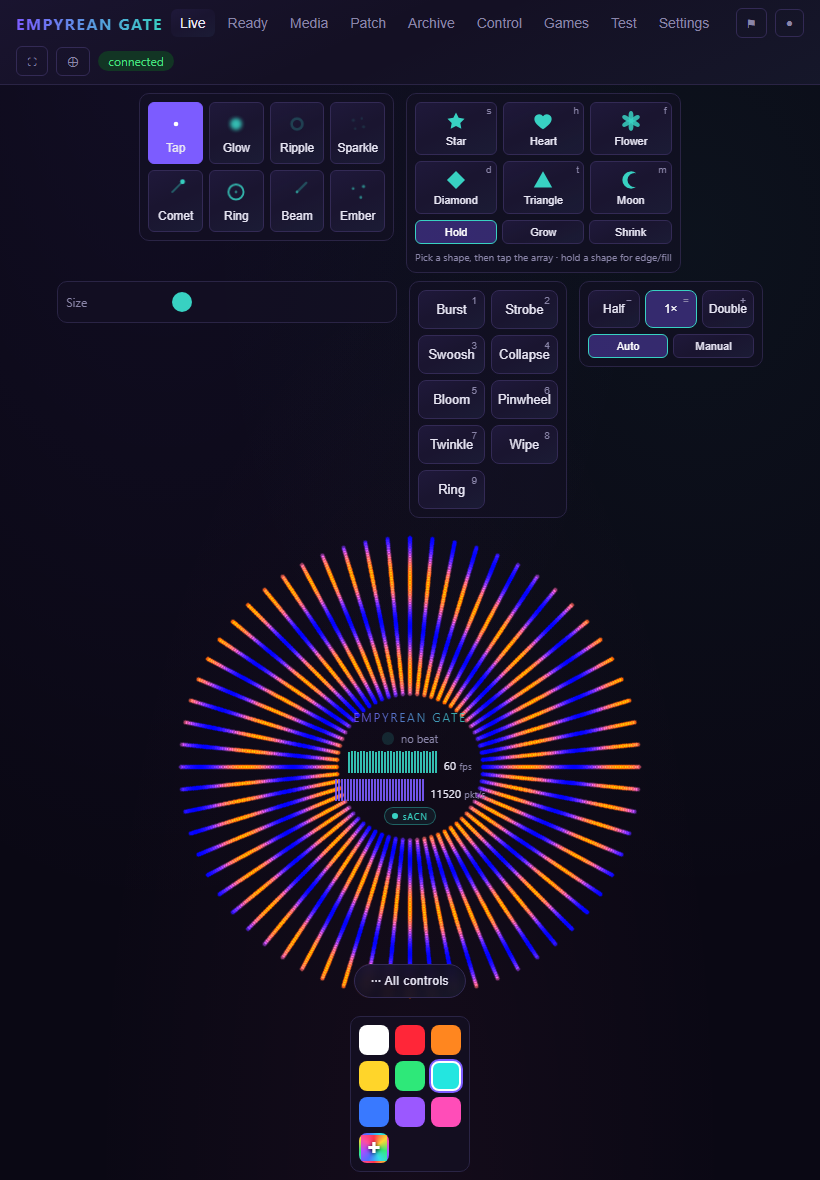
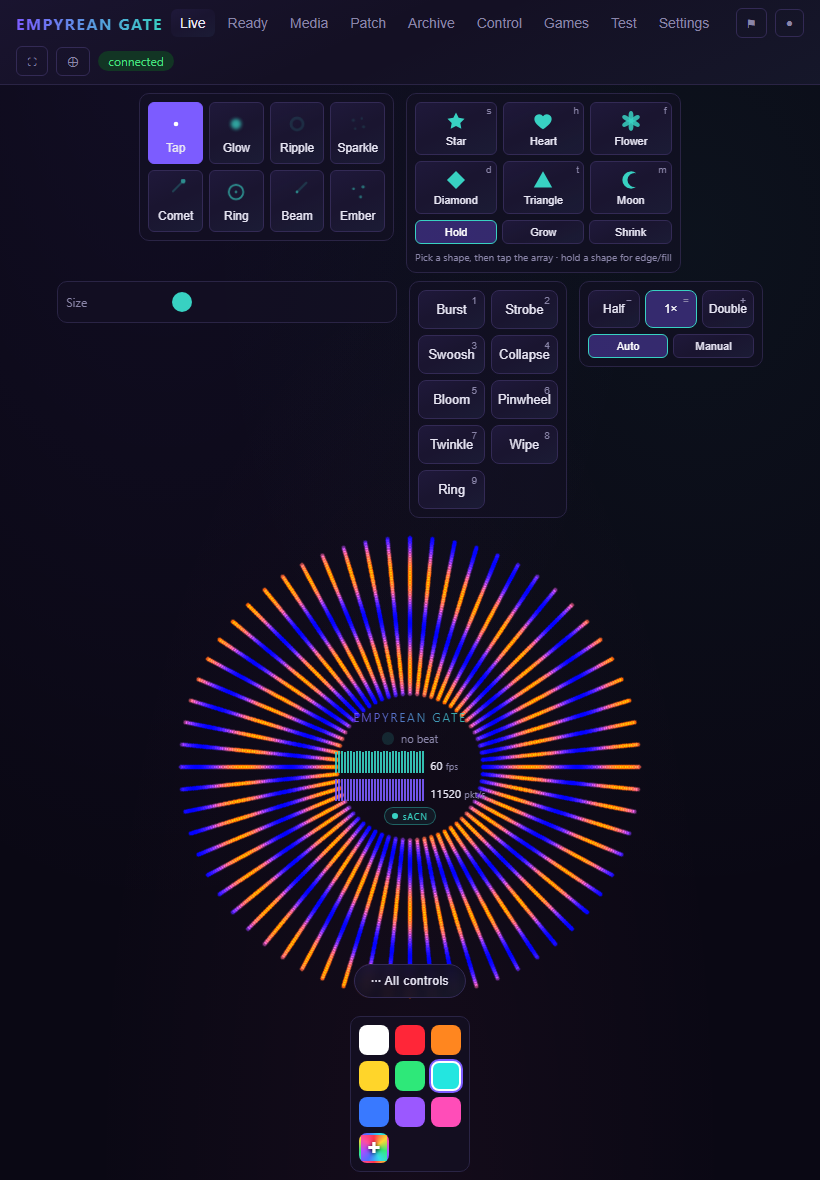
Line the ring's two meters up with each other
The fps and pkt/s sparkbars were each a full-width row centring its own
svg-plus-readout pair. "60 fps" is much narrower than "11520 pkt/s", so the
two histograms sat visibly offset from one another in the middle of the
ring — the one thing in there that is meant to read as a stacked pair.

Put both in a single grid instead, with each Sparkbars going
`display: contents` so its svg and its value become items of that grid.
Two rows, two shared columns: the bars line up and so do the readouts, and
the grid shrink-wraps so the pair still sits centred as a block.

Guarded in live-preview.spec.ts — verified it fails on the old layout.

diff --git a/src/Live.tsx b/src/Live.tsx
@@ -684,22 +684,27 @@ export default function Live() {
                 : "no beat"}
           </span>
         </div>
+        {/* One grid for both meters, so the bars share a column and line up
+            with each other instead of each row centring itself around its own
+            label width ("60 fps" is a lot narrower than "11520 pkt/s"). */}
         {status && (
-          <Sparkbars
-            data={status.fps_history}
-            color="#38d1c2"
-            label="fps"
-            value={String(status.fps_history.at(-1) ?? 0)}
-          />
-        )}
-        {status?.sacn_enabled && (
-          <Sparkbars
-            data={status.pps_history}
-            color="#7c5cff"
-            label="pkt/s"
-            value={String(status.sacn_pps)}
-            warn={status.sacn_pps === 0}
-          />
+          <div className="ring-meters">
+            <Sparkbars
+              data={status.fps_history}
+              color="#38d1c2"
+              label="fps"
+              value={String(status.fps_history.at(-1) ?? 0)}
+            />
+            {status.sacn_enabled && (
+              <Sparkbars
+                data={status.pps_history}
+                color="#7c5cff"
+                label="pkt/s"
+                value={String(status.sacn_pps)}
+                warn={status.sacn_pps === 0}
+              />
+            )}
+          </div>
         )}
         {status?.sacn_enabled && (
           // Quiet when everything is fine, loud only when something else is

diff --git a/src/styles.css b/src/styles.css
@@ -960,20 +960,35 @@ main {
   flex: 0 0 auto;
 }
 
-.ring-center .sparkbars {
-  width: 100%;
+/* Both meters live in ONE grid: each Sparkbars goes `display: contents` so its
+   svg and its value become items of this grid directly. Two rows, two shared
+   columns — the bars line up with each other and so do the readouts, which a
+   pair of independently-centred rows can never manage while their labels are
+   different widths. The grid shrink-wraps, so the pair still sits centred in
+   the ring as a block. */
+.ring-meters {
+  display: grid;
+  grid-template-columns: auto auto;
   justify-content: center;
-  gap: clamp(3px, 0.7cqw, 6px);
+  align-items: end;
+  gap: clamp(2px, 0.7cqw, 6px) clamp(3px, 0.7cqw, 6px);
+}
+
+.ring-center .sparkbars {
+  display: contents;
 }
 
 .ring-center .sparkbars svg {
   width: clamp(42px, 11cqw, 90px);
   height: auto;
-  flex: 0 1 auto;
 }
 
+/* Left-aligned in its column — .ring-center sets text-align: center, and
+   inheriting that would undo the alignment the grid just bought, the two
+   readouts being different lengths. */
 .ring-center .spark-value {
   font-size: clamp(8px, 1.4cqw, 13px);
+  text-align: left;
 }
 
 .ring-center .spark-label {

diff --git a/tests/live-preview.spec.ts b/tests/live-preview.spec.ts
@@ -27,3 +27,22 @@ test("the Gate machine preview subscribes at render cadence", async ({ page }) =
   });
   expect(previewFps, "the Gate machine preview should not add a 30 fps hold").toBe(60);
 });
+
+test("the fps and pkt/s meters line up with each other", async ({ page }) => {
+  // They used to be two independently-centred rows, so the bars landed wherever
+  // each row's own readout width put them — "60 fps" is much narrower than
+  // "11520 pkt/s", and the two histograms sat visibly offset in the ring.
+  await page.goto("/#live");
+  await page.locator('.app[data-connected="yes"]').waitFor({ state: "attached" });
+  const bars = page.locator(".ring-meters .sparkbars svg");
+  const values = page.locator(".ring-meters .spark-value");
+  await expect(bars).toHaveCount(2);
+
+  for (const [what, rows] of [
+    ["histograms", bars],
+    ["readouts", values],
+  ] as const) {
+    const lefts = await rows.evaluateAll((els) => els.map((el) => el.getBoundingClientRect().left));
+    expect(Math.abs(lefts[0] - lefts[1]), `the ${what} should share a left edge`).toBeLessThan(0.5);
+  }
+});
